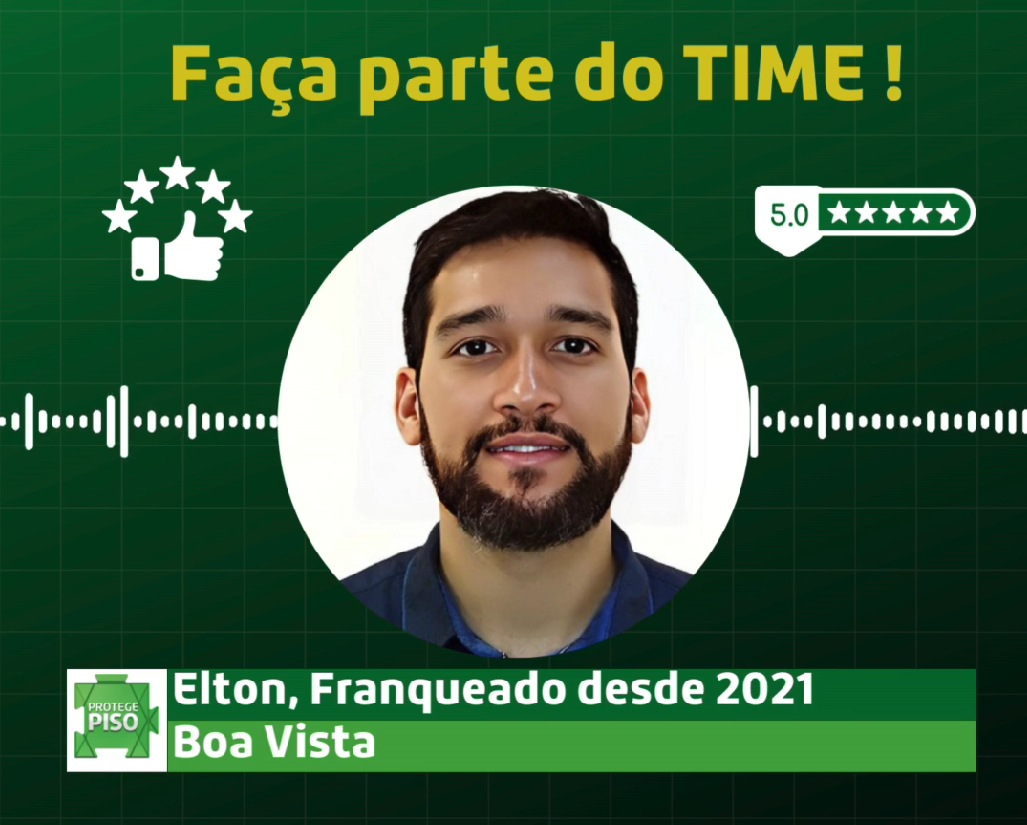
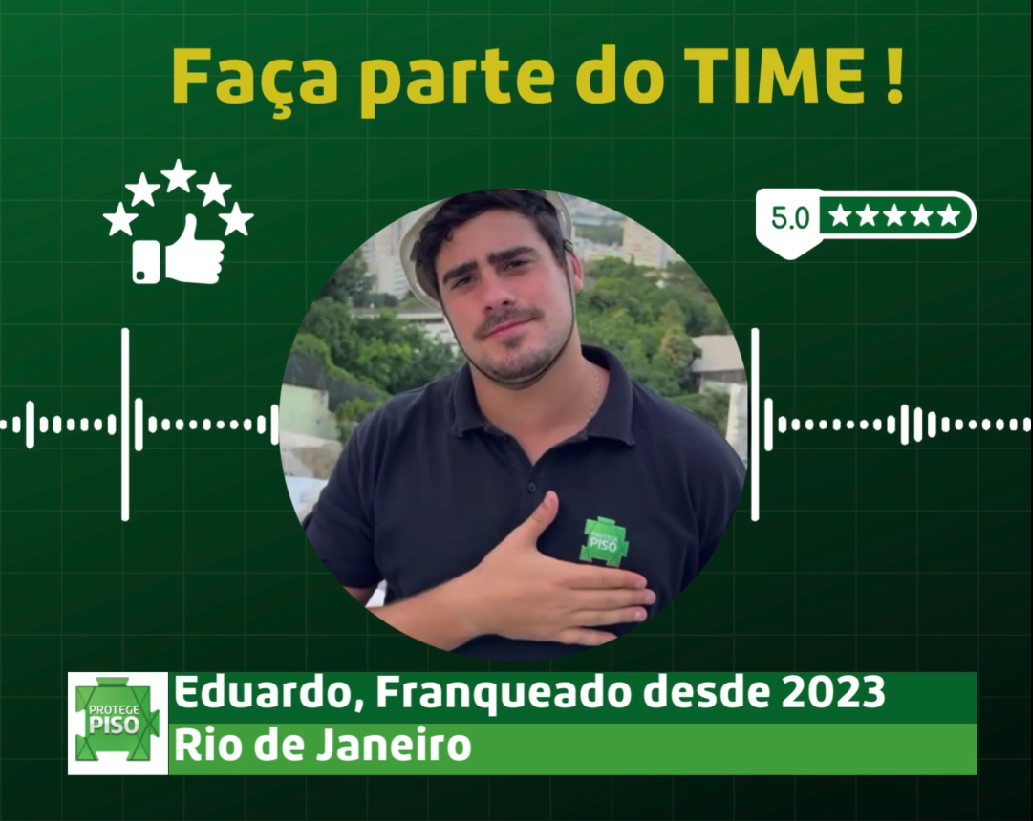
first commit franquia rio de janeiro

diff --git a/index.html b/index.html
@@ -5,7 +5,7 @@
     <meta charset="UTF-8">
     <meta name="viewport" content="width=device-width, initial-scale=1.0">
     <meta name="Landing Page" content="Website da franquia da protege piso de Palmas">
-    <title>Protege Piso Boa Vista</title>
+    <title>Protege Piso Rio de Janeiro</title>
     <link rel="stylesheet" href="styles.css">
     <link rel="stylesheet" href="https://cdn.jsdelivr.net/npm/glider-js@1/glider.min.css">
     <script src="https://cdn.jsdelivr.net/npm/glider-js@1/glider.min.js"></script>
@@ -31,7 +31,7 @@
                 <div class="navbar-container">
                     <a href="#" class="logo">
                         <img src="./images/logoprotege.png" alt="Logo da protege piso">
-                        <h3>Boa Vista</h3>
+                        <h3>Rio de Janeiro</h3>
                     </a>
 
                     <div class="menu-toggle" id="mobile-menu" onclick="toggleMenu()">
@@ -45,7 +45,7 @@
                         <li class="nav-item"><a href="#Informacoes" class="nav-link">Informações</a></li>
                         <li class="nav-item"><a href="#" class="nav-link" id="openChatBtn">Seja um franqueado</a></li>
                         <li class="nav-item">
-                            <a href="https://api.whatsapp.com/send?phone=5595981298633" target="_blank">
+                            <a href="https://api.whatsapp.com/send?phone=5521995700333" target="_blank">
                                 <img src="images/icone_whatsapp.png" alt="icone logo whatsapp" class="whatsapp-icon-nav"
                                     style="margin-right: 10px;">
                             </a>
@@ -185,7 +185,7 @@
                 <p id="followers"></p>
                 <p id="posts"></p>
             </div>
-            <a href="https://www.instagram.com/protegepisoboavista/" target="_blank"><button type="button"
+            <a href="https://www.instagram.com/protegepisoriodejaneiro/" target="_blank"><button type="button"
                     class="botao-seguir">Seguir</button></a>
         </div>
         <div class="glider-contain-custom">
@@ -197,7 +197,7 @@
     </section>
 
     <section class="container-quem-somos" id="QuemSomos">
-        <h3>EM BOA VISTA DESDE 2021</h3>
+        <h3>NO RIO DE JANEIRO DESDE 2023</h3>
         <img src="images/na_cidade_desde.PNG" class="imagem-quem-somos" alt="imagem do franqueado">
     </section>
 
@@ -208,20 +208,20 @@
 
         <div class="rodape-informacoes">
             <h5>Franquia</h5>
-            <p>boavista@protegepiso.com.br</p>
+            <p>riodejaneiro@protegepiso.com.br</p>
             <div class="item-rodape">
-                <a href="https://api.whatsapp.com/send?phone=5595981298633" target="_blank">
+                <a href="https://api.whatsapp.com/send?phone=5521995700333" target="_blank">
                     <img src="images/icone_whatsapp.png" alt="icone logo whatsapp"
                         class="rodape-informacoes-icone-whatsapp">
                 </a>
-                <p>(95) 98129-8633</p>
+                <p>(21) 99570-0333</p>
             </div>
             <div class="item-rodape">
-                <a href="https://www.instagram.com/protegepisoboavista/" target="_blank">
+                <a href="https://www.instagram.com/protegepisoriodejaneiro/" target="_blank">
                     <img src="images/icone_instagram.png" alt="icone logo instagram"
                         class="rodape-informacoes-icone-instagram">
                 </a>
-                <p>@protegepisoboavista</p>
+                <p>@protegepisoriodejaneiro</p>
             </div>
         </div>
 

diff --git a/index.js b/index.js
@@ -39,7 +39,7 @@ function toggleMenu() {
     menu.classList.toggle('active');
 }
 
-const apiUrl = 'https://app.ketzim.com/webservice/get-instagram-info/ProtegePisoBoaVista/?Token=Ld7gRCo9JtIRw0Ub3sC3JxuCgIMvSAzJEMLSutCPh9XosGzzqpdlhsqhUYXHHRyHKPZ6MHcwfl8Dl7ohzsKv7jpihquxHvFmEkFJ';
+const apiUrl = 'https://app.ketzim.com/webservice/get-instagram-info/ProtegePisoRioDeJaneiro/?Token=Ld7gRCo9JtIRw0Ub3sC3JxuCgIMvSAzJEMLSutCPh9XosGzzqpdlhsqhUYXHHRyHKPZ6MHcwfl8Dl7ohzsKv7jpihquxHvFmEkFJ';
 
 function displayUserProfile(profile) {
     document.getElementById('profile-picture').src = profile.profile_picture_url;
@@ -134,7 +134,7 @@ function waitForJivoChat() {
 waitForJivoChat();
 
 const iframeContainer = document.querySelector('.container-iframe');
-const iframeUrl = 'https://app.ketzim.com/webservice/mapa/boavista/';
+const iframeUrl = 'https://app.ketzim.com/webservice/mapa/riodejaneiro/';
 
 
 fetch(iframeUrl)
